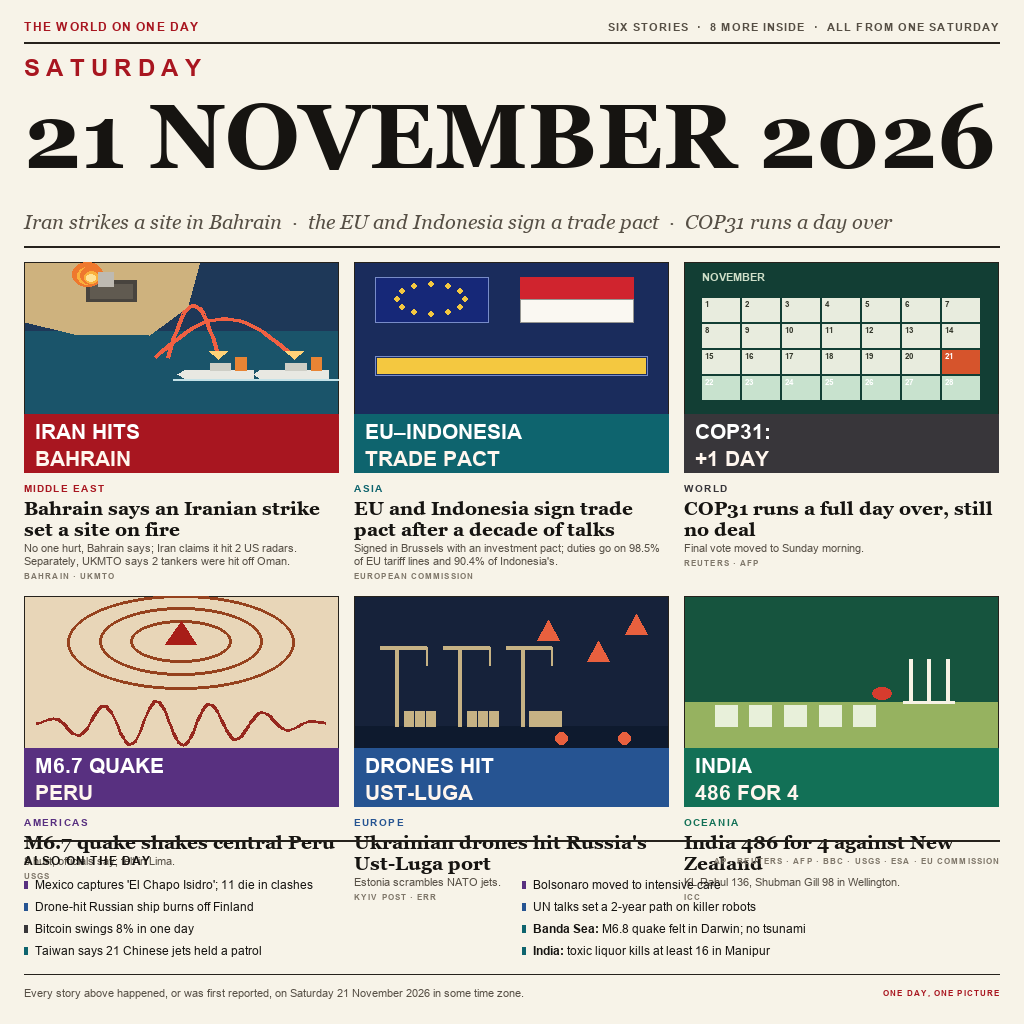
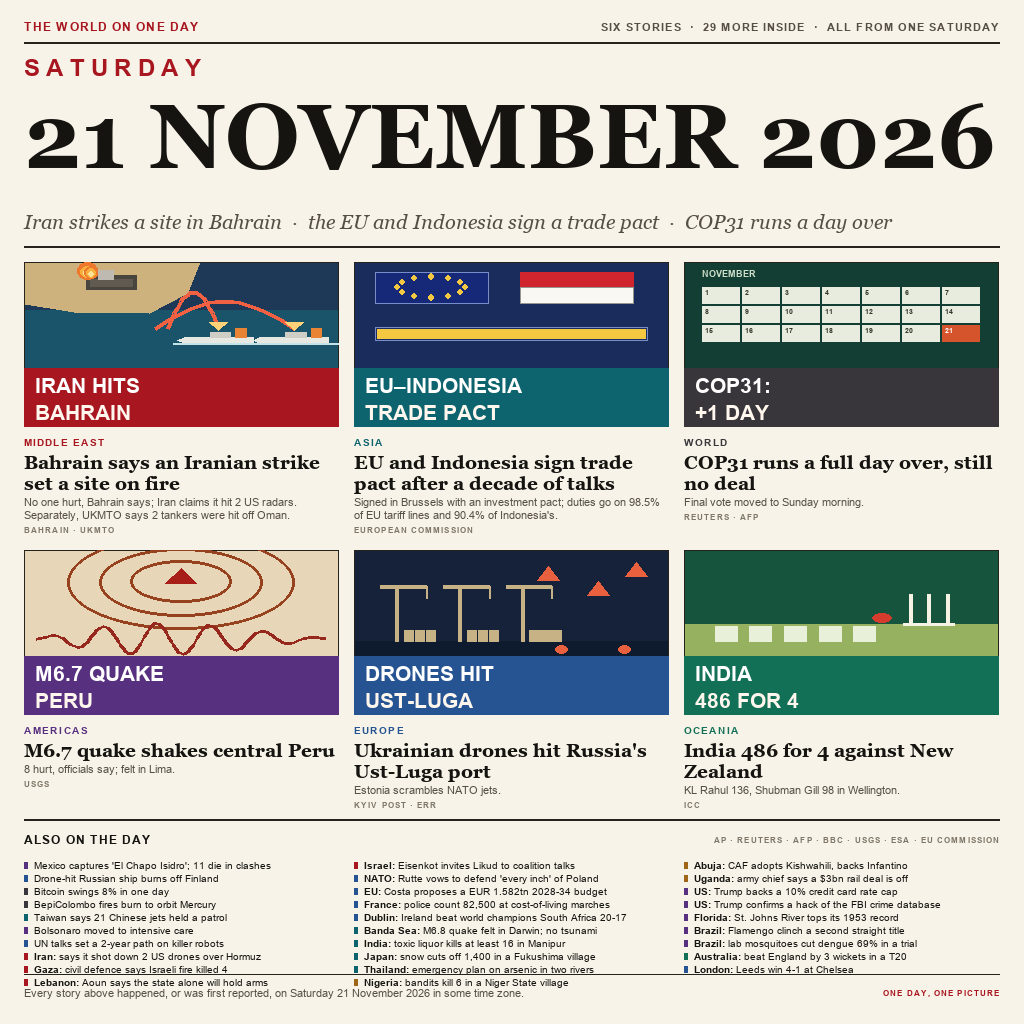
Cover all 35 stories of the day and stop the briefs rail hitting the grid

diff --git a/tools/poster.py b/tools/poster.py
@@ -124,6 +124,7 @@ STORIES = [
 
 FD = "C:/Windows/Fonts/"
 _cache = {}
+RECORD_CAPS = []
 
 
 def font(name, size):
@@ -170,11 +171,22 @@ def fit_caps(d, s, name, size, maxw, minsize=9, track=0.0):
     return font(name, minsize), minsize
 
 
+SUPPRESS = False
+
+
 def caps(d, xy, s, f, fill, track=1.1):
+    """Letter-spaced caps: one glyph per call, recorded once as a whole string."""
+    global SUPPRESS
     x, y = xy
-    for ch in s:
-        d.text((x, y), ch, font=f, fill=fill)
-        x += tw(d, ch, f) + track
+    start = x
+    SUPPRESS = True
+    try:
+        for ch in s:
+            d.text((x, y), ch, font=f, fill=fill)
+            x += tw(d, ch, f) + track
+    finally:
+        SUPPRESS = False
+    RECORD_CAPS.append((s, (int(start), y, int(x - track), y + f.size + 2)))
     return x
 
 
@@ -429,10 +441,17 @@ ART = {1: art_strike, 2: art_trade, 6: art_cop, 8: art_quake,
 
 def draw_art(img, n, box):
     """Draw an illustration clipped to its box, however far its strokes reach."""
+    global SUPPRESS
     x0, y0, x1, y1 = box
     w, h = int(x1 - x0 + 1), int(y1 - y0 + 1)
     tile = Image.new("RGB", (w, h), PAPER)
-    ART[n](ImageDraw.Draw(tile), (0, 0, w - 1, h - 1))
+    # The drawing renders into its own tile at local coordinates; its labels are
+    # part of the picture, not layout text, so keep them out of the audit record.
+    SUPPRESS = True
+    try:
+        ART[n](ImageDraw.Draw(tile), (0, 0, w - 1, h - 1))
+    finally:
+        SUPPRESS = False
     img.paste(tile, (int(x0), int(y0)))
 
 
@@ -449,7 +468,8 @@ CAPTION = {
 }
 
 PANELS = [1, 2, 6, 8, 10, 12]
-FOOT = [3, 4, 5, 9, 11, 13, 22, 23]
+# every remaining story of the edition, so the page covers the whole day
+FOOT = [3, 4, 5, 7, 9, 11, 13] + list(range(14, 36))
 
 
 def main(out_path):
@@ -484,18 +504,37 @@ def main(out_path):
     f_kick = font("arialbd.ttf", 10)
     f_src = font("arialbd.ttf", 8.5)
 
-    heights = []
-    for n in PANELS:
-        st = by_n(n)
-        h = art_h + band_h + 8 + 15
-        h += int(19 * 1.12) * len(wrap(d, st[2], f_head, pw))
-        if st[3]:
-            h += 3 + 13 * len(wrap(d, st[3], f_deck, pw)[:2])
-        h += 3 + 11
-        heights.append(h)
-    row_h = [max(heights[0:3]), max(heights[3:6])]
+    def measure(a_h):
+        hs = []
+        for n in PANELS:
+            st = by_n(n)
+            h = a_h + band_h + 8 + 15
+            h += int(19 * 1.12) * len(wrap(d, st[2], f_head, pw))
+            if st[3]:
+                h += 3 + 13 * len(wrap(d, st[3], f_deck, pw)[:2])
+            h += 3 + 11
+            hs.append(h)
+        return [max(hs[0:3]), max(hs[3:6])]
 
     top = 262
+    # the briefs rail sizes itself first; the pictures then take what is left
+    f_b = font("arialbd.ttf", 10.5)
+    f_r = font("arial.ttf", 10.5)
+    cols = 3
+    colw = (EDGE - 2 * 16) // cols
+    rows = (len(FOOT) + cols - 1) // cols
+    lead = 13.0
+    close_rule = H - M - 26
+    foot_h = (rows - 1) * lead + 12
+    y_foot = close_rule - 12 - foot_h
+    rule = y_foot - 14
+    # shrink the pictures until both rows clear the footer band
+    while art_h > 80:
+        row_h = measure(art_h)
+        if top + row_h[0] + gap + row_h[1] <= rule - 10:
+            break
+        art_h -= 2
+    row_h = measure(art_h)
     for i, n in enumerate(PANELS):
         st = by_n(n)
         col = colour(st)
@@ -526,30 +565,30 @@ def main(out_path):
         caps(d, (cx, ty + 3), st[4].upper(), f_src, FAINT)
 
     # the rest of the day, anchored to the foot so the page closes cleanly
-    y_foot = H - M - 146
     d.line([M, y_foot - 14, RIGHT, y_foot - 14], fill=RULE, width=2)
     caps(d, (M, y_foot), "ALSO ON THE DAY", font("arialbd.ttf", 12), INK)
     note = "AP · REUTERS · AFP · BBC · USGS · ESA · EU COMMISSION"
     caps(d, (RIGHT - caps_width(d, note, f_src), y_foot + 2), note, f_src, FAINT)
 
-    f_b = font("arialbd.ttf", 12.5)
-    f_r = font("arial.ttf", 12.5)
-    colw = (EDGE - 20) // 2
-    rows = (len(FOOT) + 1) // 2
     for i, n in enumerate(FOOT):
         st = by_n(n)
-        cx = M + (i // rows) * (colw + 20)
-        yy = y_foot + 24 + (i % rows) * 22.0
-        d.rectangle([cx, yy + 3, cx + 3, yy + 10], fill=colour(st))
+        cx = M + (i // rows) * (colw + 16)
+        yy = y_foot + 26 + (i % rows) * lead
+        d.rectangle([cx, yy + 3, cx + 3, yy + 9], fill=colour(st))
         head = st[2]
-        x = cx + 11
+        x = cx + 10
         if ": " in head:
             actor, rest = head.split(": ", 1)
             d.text((x, yy), actor + ":", font=f_b, fill=INK)
             x += tw(d, actor + ":", f_b) + tw(d, " ", f_r)
-            if x + tw(d, rest, f_r) <= cx + colw:
+            # clip the remainder to the column so it never runs into the next one
+            while rest and x + tw(d, rest, f_r) > cx + colw - 2:
+                rest = rest[:-1].rstrip()
+            if rest:
                 d.text((x, yy), rest, font=f_r, fill=INK)
         else:
+            while head and x + tw(d, head, f_r) > cx + colw - 2:
+                head = head[:-1].rstrip()
             d.text((x, yy), head, font=f_r, fill=INK)
 
     # closing line: what the page promises about itself

diff --git a/tools/layout_audit.py b/tools/layout_audit.py
@@ -26,8 +26,14 @@ _orig_text = ImageDraw.ImageDraw.text
 
 def recording_text(self, xy, text, *a, **kw):
     box = _orig_text(self, xy, text, *a, **kw)
-    if str(text).strip():
-        RECORDS.append((str(text), box))
+    if str(text).strip() and not poster.SUPPRESS:
+        # PIL's text() returns None, so measure the box ourselves: trusting its
+        # return value records nothing and makes every overlap check vacuous.
+        try:
+            bbox = self.textbbox(xy, str(text), font=kw.get("font"), anchor=kw.get("anchor"))
+        except Exception:
+            bbox = None
+        RECORDS.append((str(text), bbox))
     return box
 
 
@@ -64,27 +70,24 @@ def audit_page():
 
     M, RIGHT = poster.M, poster.RIGHT
     outside = []
-    for txt, box in RECORDS:
-        if box is None:
-            continue
+    measured = [r for r in RECORDS if r[1] is not None] + \
+               [r for r in poster.RECORD_CAPS if r[1] is not None]
+    for txt, box in measured:
         x0, y0, x1, y1 = box
         if x0 < M - 1 or x1 > RIGHT + 2 or y1 > 1024 - M + 3 or y0 < 4:
             outside.append((txt, box))
 
     overlaps = []
-    for i in range(len(RECORDS)):
-        ta, ba = RECORDS[i]
-        if ba is None:
-            continue
-        for j in range(i + 1, len(RECORDS)):
-            tb, bb = RECORDS[j]
-            if bb is None:
-                continue
+    for i in range(len(measured)):
+        ta, ba = measured[i]
+        for j in range(i + 1, len(measured)):
+            tb, bb = measured[j]
             ox = min(ba[2], bb[2]) - max(ba[0], bb[0])
             oy = min(ba[3], bb[3]) - max(ba[1], bb[1])
             if ox > 2 and oy > 2:
                 overlaps.append((ta, tb, ox, oy))
-    return outside, overlaps
+    unmeasured = len(RECORDS) - len([r for r in RECORDS if r[1] is not None])
+    return outside, overlaps, unmeasured
 
 
 def audit_bands():
@@ -108,7 +111,7 @@ def audit_bands():
 
 def main():
     art = audit_art()
-    outside, overlaps = audit_page()
+    outside, overlaps, unmeasured = audit_page()
     bands = audit_bands()
 
     for n, x, y in art:
@@ -119,8 +122,10 @@ def main():
         print("OVERLAP    %r / %r  by %dx%d px" % (ta[:32], tb[:32], ox, oy))
     for b in bands:
         print("BAND       %r" % (b,))
+    if unmeasured:
+        print("UNMEASURED %d text calls had no box" % unmeasured)
 
-    ok = not art and not outside and not overlaps and not bands
+    ok = not art and not outside and not overlaps and not bands and not unmeasured
     print("audit: %s (%d spills, %d outside, %d overlaps, %d band)"
           % ("PASS" if ok else "FAIL", len(art), len(outside), len(overlaps), len(bands)))
     return 0 if ok else 1

diff --git a/tools/content_audit.py b/tools/content_audit.py
@@ -1,0 +1,64 @@
+#!/usr/bin/env python3
+"""content_audit.py - every word on the page must come from the edition.
+
+Run:  python tools/content_audit.py
+
+The judge marks an entry down for anything it knows to be false, so each
+statement drawn from a story (headline, summary, place, source) is matched
+against that story in ed21.json. A mismatch exits 1.
+"""
+
+import json
+import sys
+from pathlib import Path
+
+sys.path.insert(0, str(Path(__file__).resolve().parent))
+
+import poster
+
+EDITION = Path(r"C:\Users\M S I\ed21.json")
+
+
+def norm(s):
+    """Case and spacing are typography, not fact: compare the words."""
+    s = str(s).replace("\u2019", "'").replace("\u2018", "'")
+    return " ".join(s.split()).lower()
+
+
+def main():
+    doc = json.load(EDITION.open(encoding="utf-8"))
+    stories = {s["n"]: s for s in doc["stories"]}
+    bad = []
+
+    for n in poster.PANELS + list(poster.FOOT):
+        st = stories[n]
+        row = poster.by_n(n)
+        outlets = st.get("outlets") or st.get("sources") or []
+        if isinstance(outlets, list):
+            outlets = " · ".join(outlets)
+        # poster rows: (n, region, headline, summary, sources)
+        for label, want, got in (
+            ("headline", st["headline"], row[2]),
+            ("sources", outlets, row[4]),
+        ):
+            if want and norm(want) != norm(got):
+                bad.append((n, label, norm(want), norm(got)))
+        if st.get("summary") and norm(st["summary"]) != norm(row[3]):
+            bad.append((n, "summary", norm(st["summary"]), norm(row[3])))
+
+    for n, label, want, got in bad:
+        print("MISMATCH #%d %s\n  edition: %r\n  poster : %r" % (n, label, want, got))
+
+    used = sorted(set(poster.PANELS + list(poster.FOOT)))
+    missing = [n for n in stories if n not in used]
+    print("stories in edition: %d, on the page: %d" % (len(stories), len(used)))
+    if missing:
+        print("NOT ON THE PAGE: %s" % missing)
+
+    ok = not bad and not missing
+    print("content: %s (%d mismatches, %d stories missing)" % ("PASS" if ok else "FAIL", len(bad), len(missing)))
+    return 0 if ok else 1
+
+
+if __name__ == "__main__":
+    sys.exit(main())
